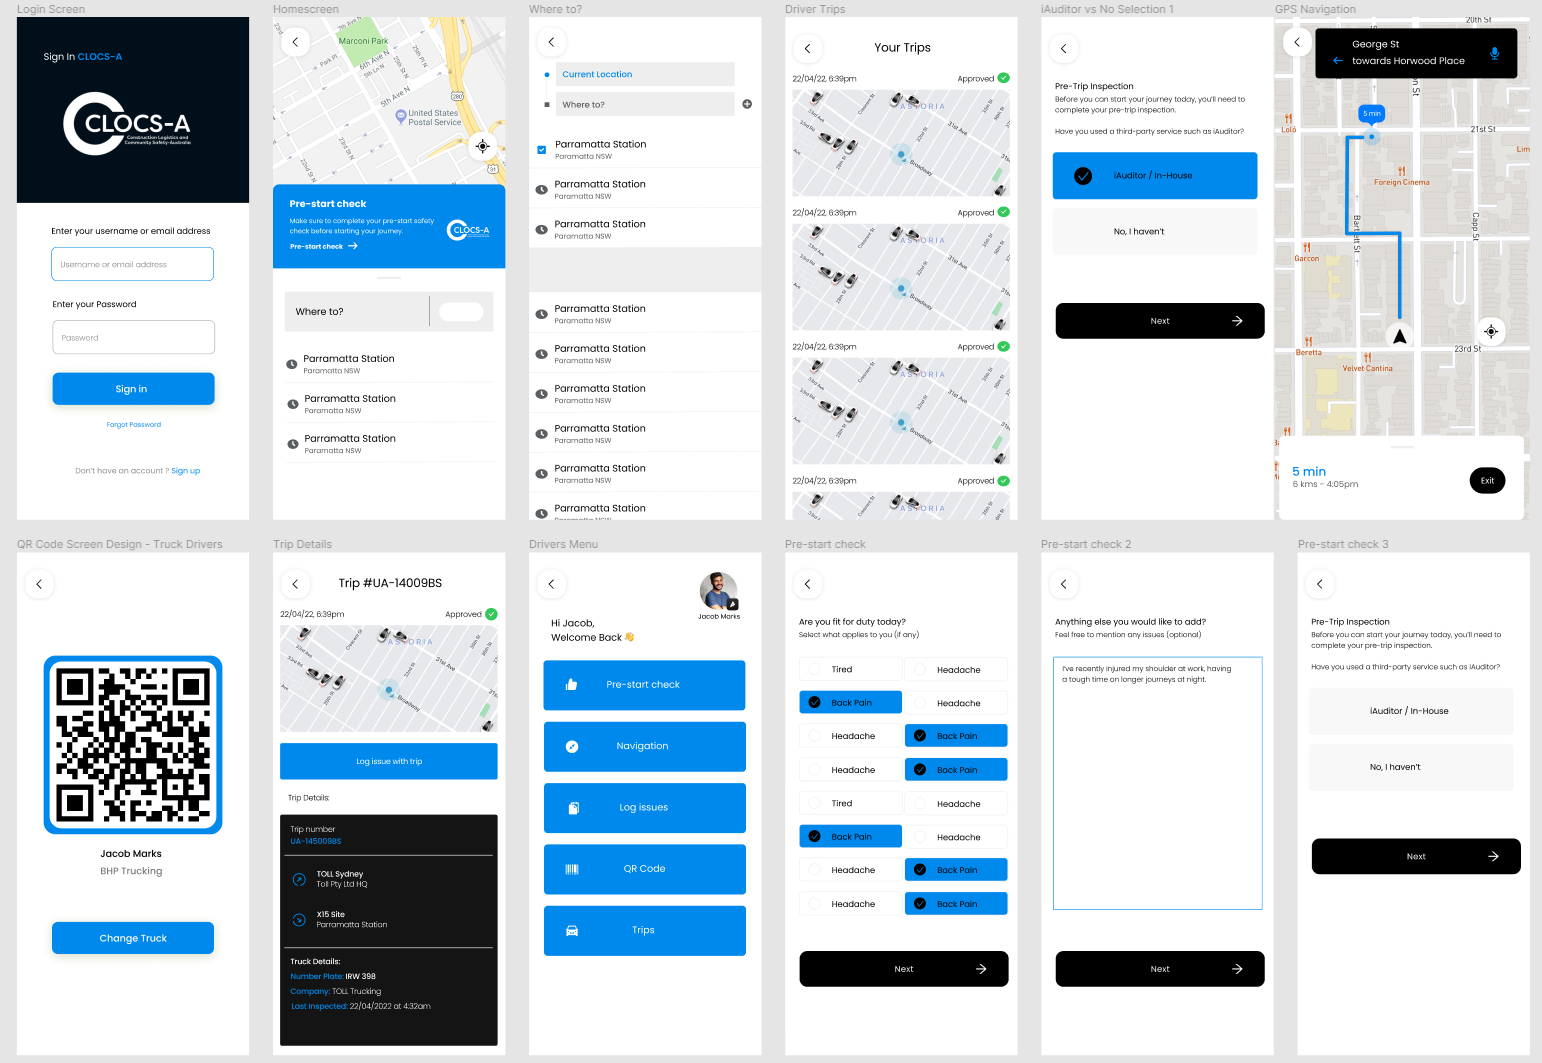
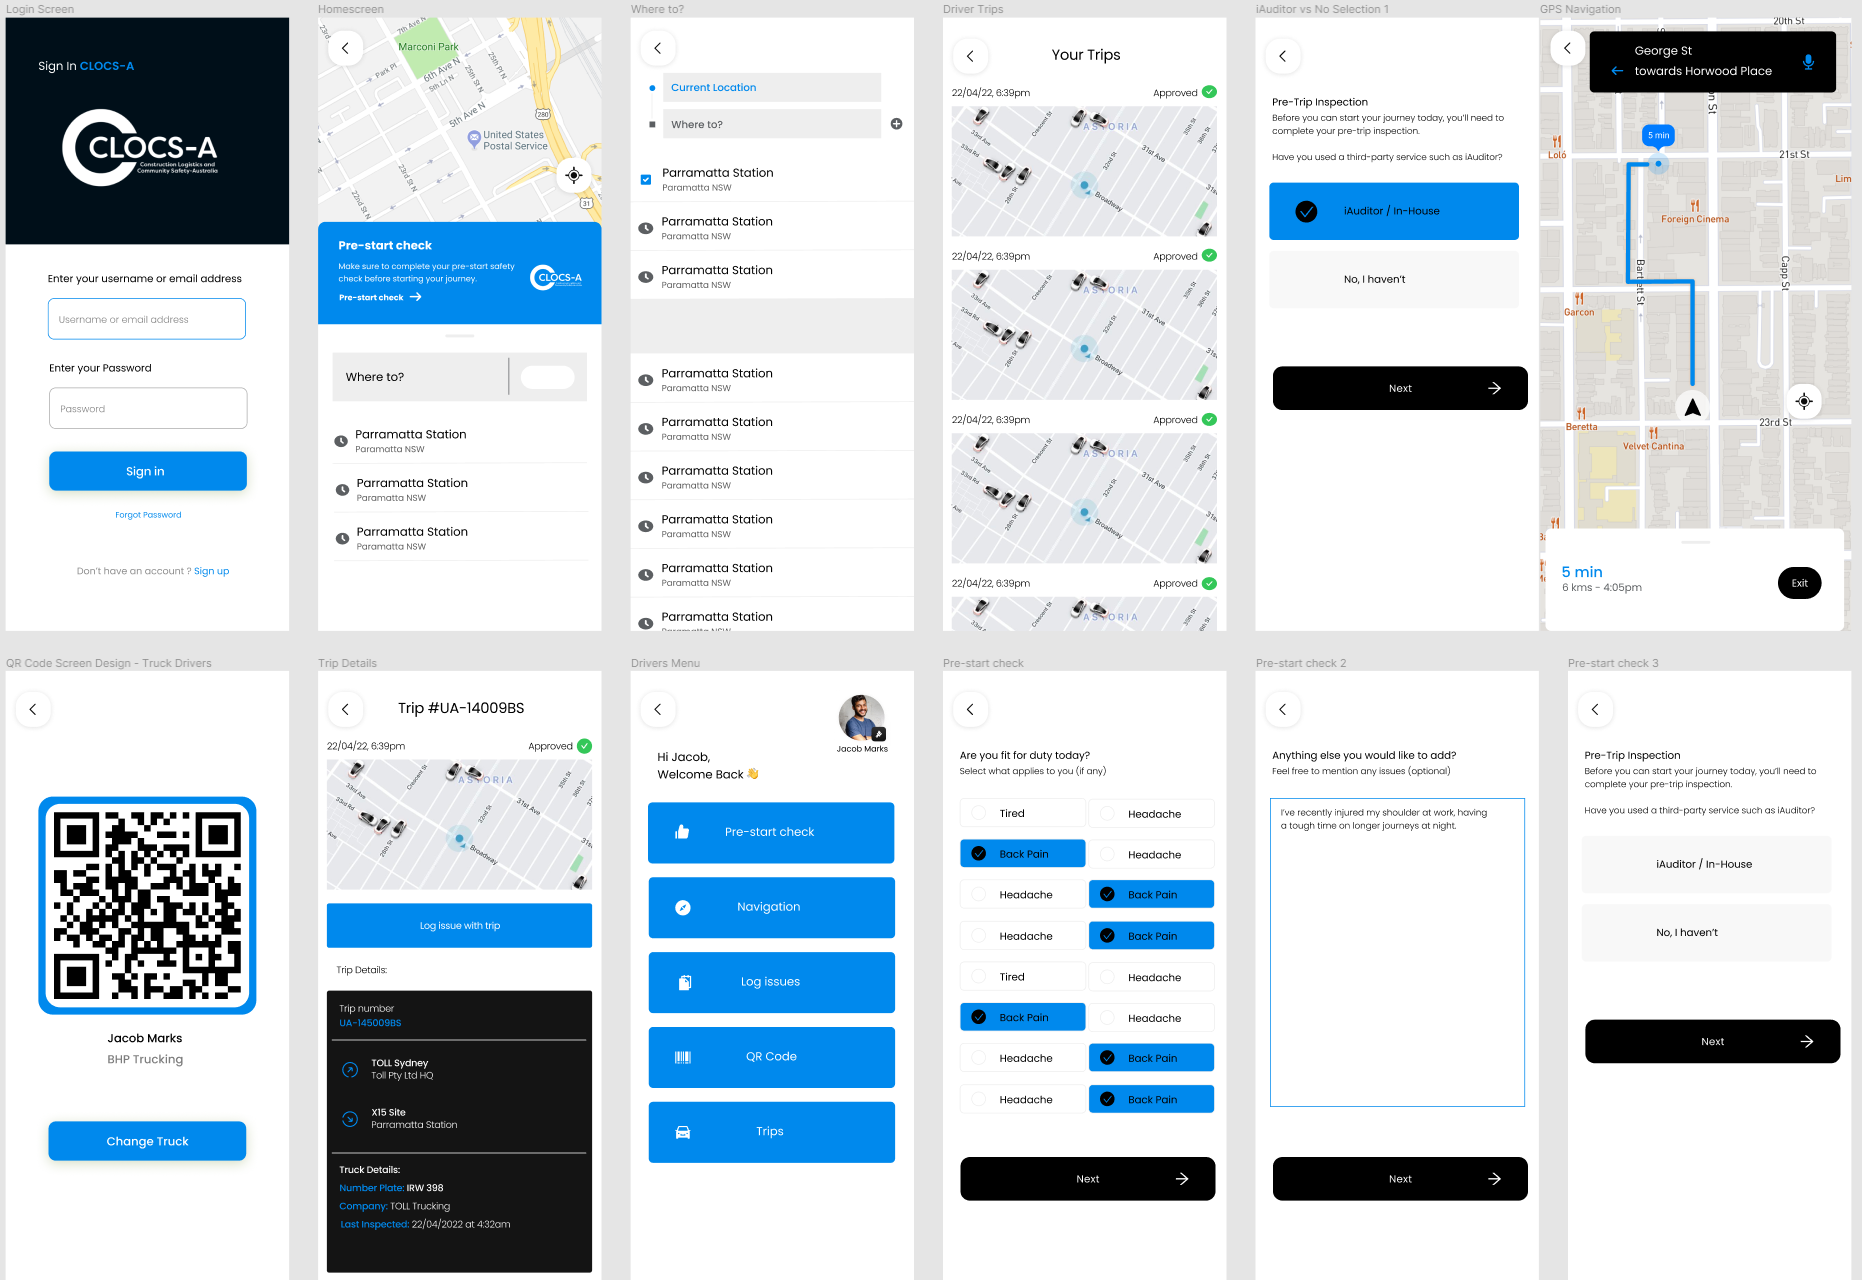
added higher quality image for figma designs.

diff --git a/pages/components/projects/figmaShowcase.tsx b/pages/components/projects/figmaShowcase.tsx
@@ -13,7 +13,7 @@ export default function FigmaShowcase() {
             </h3>
           </div>
 
-          <div className="relative text-base md:text-lg lg:text-xl xl:text-lg py-10 text-white font-poppins mx-6 md:mx-20 xl:mx-80">
+          <div className="relative text-base md:text-lg lg:text-xl xl:text-lg py-10 text-white font-poppins mx-6 md:mx-20 xl:mx-60">
             <p>
               Designed multiple prototypes after discussions with key
               stakeholders and user testing. I designed the mobile device
@@ -24,7 +24,7 @@ export default function FigmaShowcase() {
             </p>
           </div>
         </div>
-        <div className="mx-auto md:mx-20 xl:mx-80">
+        <div className="mx-auto md:mx-20 xl:mx-60">
           <Image
             src={figma}
             alt="Figma Designs Example"

diff --git a/pages/project/index.tsx b/pages/project/index.tsx
@@ -54,6 +54,12 @@ export default function Project() {
               video="https://youtu.be/ron3H1-aqj4"
               thumbnail=""
             />
+            <InfoSectionSecondary
+              title="CLOCS-A"
+              desc="Final Year Capstone project in collaboration with Transport NSW & CLOCS-A. Initiative to develop several-cutting edge mobile apps that help construction and logistics companies across Australia monitor and adhere to compliance standards in trucking logistics. Collaborated with a team of 4 incredible developers to build 3 fully integrated apps."
+              video="https://youtu.be/ron3H1-aqj4"
+              thumbnail=""
+            />
           </div>
           <div>
             <Footer />
